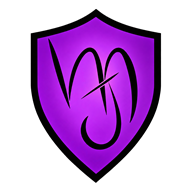
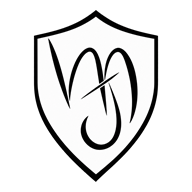
Změnit výplň znaku na bílou

diff --git a/index.html b/index.html
@@ -51,7 +51,7 @@ main{width:100%;flex:1;display:flex;flex-direction:column}
  <div class="card"><div class="row between"><h2>Poslední záznamy</h2><button class="small secondary" onclick="showPage('records')">Všechny</button></div><h3>Náslechové záznamy</h3><div id="recentObservations"></div><h3 style="margin-top:16px">Kontrolní činnost</h3><div id="recentControls"></div></div>
  <button style="width:100%;background:#ffffff;color:#171322;border:1px solid #ffffff" onclick="openRecord(undefined,true)">＋ Přidat náslechový záznam</button>
  <button style="width:100%;margin-top:10px;background:#9ca3af;color:#171322;border:1px solid #9ca3af" onclick="openControlActivity()">＋ Kontrolní činnost</button>
- <footer class="last-update">Poslední aktualizace <time datetime="2026-11-14T18:58:01.000Z">14. 11. 2026 19:58</time></footer>
+ <footer class="last-update">Poslední aktualizace <time datetime="2026-11-14T19:04:58.000Z">14. 11. 2026 20:04</time></footer>
 </section>
 <section id="partners" class="page hidden">
  <div class="row between"><h2>Učitelé</h2><button onclick="openPartner()">＋ Přidat</button></div>

diff --git a/sw.js b/sw.js
@@ -1,5 +1,5 @@
 const CACHE_PREFIX='teacher-statistik-';
-const CACHE=CACHE_PREFIX+'v45';
+const CACHE=CACHE_PREFIX+'v46';
 const ASSETS=['./','./index.html','./manifest.webmanifest','./icon-192.png','./icon-512.png','./icon-180.png'];
 self.addEventListener('install',event=>{event.waitUntil(caches.open(CACHE).then(cache=>cache.addAll(ASSETS)).then(()=>self.skipWaiting()))});
 self.addEventListener('activate',event=>{event.waitUntil(caches.keys().then(keys=>Promise.all(keys.filter(key=>key.startsWith(CACHE_PREFIX)&&key!==CACHE).map(key=>caches.delete(key)))).then(()=>self.clients.claim()))});

diff --git a/README.md b/README.md
@@ -4,5 +4,5 @@ Aplikace vychází z verze Partner Statistik 2.5. Pro nasazení na GitHub Pages 
 
 Teacher_statistik má vlastní úložiště v prohlížeči. Náslechové záznamy i kontrolní činnost se ukládají v tomto zařízení; export/import v Nastavení přenáší učitele, kritéria a všechny záznamy. Zálohu uchovávejte v soukromí.
 
-Fialové logo ve tvaru štítu s průhledným okolím je v záhlaví aplikace a v instalačních ikonách.
+Bílé logo ve tvaru štítu s průhledným okolím je v záhlaví aplikace a v instalačních ikonách.
 
